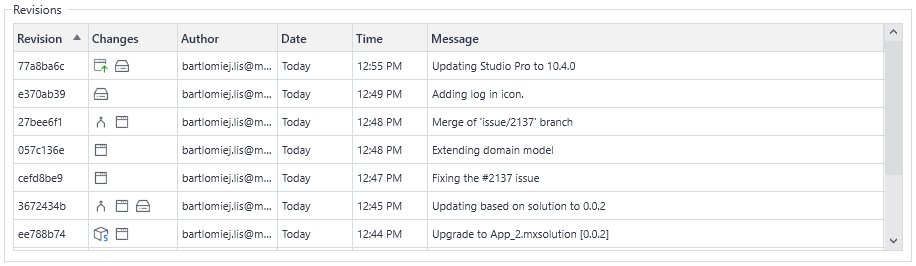
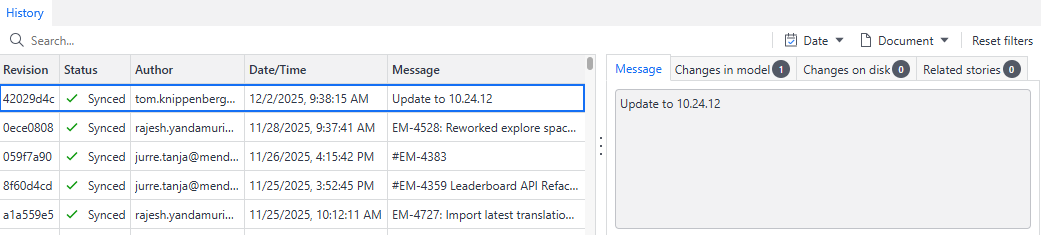
Updated History documentation for 11.6 Pane GA

Changed region(s): [[0.0, 0.0894, 1.0, 0.983], [0.0, 0.0298, 0.0917, 0.0894]]

diff --git a/content/en/docs/refguide/modeling/menus/version-control-menu/history-dialog.md b/content/en/docs/refguide/modeling/menus/version-control-menu/history-dialog.md
@@ -5,92 +5,92 @@ weight: 50
 ---
 ## Introduction
 
-Use the **History** dialog box to look at all the changes that have been committed to a development line of an app. You can open this dialog box from the **Version Control** > **History…** menu item. This dialog box is also used when selecting a revision to merge from, create a branch line off, or to create a deployment archive from.
+Use the **History** to look at all the changes that have been committed to a development line of an app. You can open this from the **Version Control** > **History…** menu item. The History is also used when selecting a revision to revert, to merge from, create a branch line off, or to create a deployment archive from.
 
 {{% alert color="info" %}}
-In Studio Pro 11.4, the non-blocking, searchable **History** pane beta has been released. Open the pane by clicking **View** > **History**. You can set this feature as your default history view in the Preferences [New Features](/refguide/preferences-dialog/#history-pane) tab.
+In Studio Pro 11.6 a new default view for History was introduced. Partially cloned apps automatically get the older blocking dialog and through the [Version Control Preferences](/refguide/preferences-dialog/#history-pane) you can choose to keep using the blocking dialog for all apps.
+
+For more information on the older blocking dialog, please refer to the [Mendix 10 documentation](/refguide10/history-dialog/).
 {{% /alert %}}
 
-{{% alert color="info" %}}
- The **History** pane is not available when the app is partially cloned.
-{{% /alert %}}
-
-The **History** dialog can display up to 250 commits at once, making it easy to look at the detailed project history. If the app was only partially copied, it may need to download missing data from the server. While the data is being downloaded, a progress bar will be shown. This initial download could take a little time, but once the data is saved locally, future access to the **History** dialog will be significantly faster — almost instant.
+The **History** pane displays all revisions at once in a searchable grid, making it easy to look at the detailed project history.
 
 ## Revisions
 
 {{< figure src="/attachments/refguide/modeling/menus/version-control-menu/history-dialog/revisions.png" alt="Revisions Image" class="no-border" >}}
 
-Each line in the grid represents a revision in the repository. For each revision the following information is shown, more information about each of these values is available below:
+Each line in the grid represents a revision in the repository. 
+
+### Search and Filters
+
+There are different filter options available to help finding specific revisions. 
+
+* The search bar looks in all fields of the revisions grid, as well as in the details of the commit such as the Model changes and Disk changes.
+* The date filter allows specifying a date range for revisions. The available presets help to quickly select a range.
+* The document filter allows selecting a document, such as a specific microflow, to filter all revisions on.
+
+### Content
+
+For each revision the following information is shown, more information about each of these values is available below:
 
 * [Revision](#revision)
+* [Status](#status)
 * [Changes](#changes)
 * [Author](#author)
-* [Date](#date)
-* [Time](#time)
+* [Date/Time](#datetime)
 * [Message](#message)
 
 By selecting a revision in this grid, the tabs below the grid will be filled with information about this revision.
 
-### Revision{#revision}
+#### Revision{#revision}
 
 A unique alphanumeric identifier of the revision in the repository. The revision identifier is the Git hash for the commit and is unique for a whole repository.
 
-### Changes{#changes}
+#### Status{#status}
 
-A visual summary of the changes in the selected revision, each icon represents different type of change:
+Shows the state of the revision in relation to the server. It can have one of the following values:
 
-| Icon | Change Type | Notes |
-| --- | --- | --- |
-| {{< figure src="/attachments/refguide/modeling/menus/version-control-menu/history-dialog/MergeRevision.png" width=32 alt="Merge commit icon" class="no-border" >}} | Merge commit | Indicates that the commit is a merge of two different commits.<br/>Hovering over will show both the parent [revisions](#revision). |
-| {{< figure src="/attachments/refguide/modeling/menus/version-control-menu/history-dialog/RevChangesModel.png" width=32 alt="Model changes icon" class="no-border" >}} | Model changes | Indicates that there were some changes made to the app model.<br/>For example, changes to the domain model, microflows, or pages. |
-| {{< figure src="/attachments/refguide/modeling/menus/version-control-menu/history-dialog/RevChangesDisk.png" width=32 alt="Changes on disk icon" class="no-border" >}} | Changes on disk | Indicates that there were changes on disk.<br/>For example, a file was added or removed. |
-| {{< figure src="/attachments/refguide/modeling/menus/version-control-menu/history-dialog/RevChangesVersion.png" width=32 alt="Studio Pro changes icon" class="no-border" >}} | Studio Pro changes | Indicates that there was a change to the Studio Pro version used to work with the app.<br/>For example, when upgrading the app from a previous version to the latest one. |
-| {{< figure src="/attachments/refguide/modeling/menus/version-control-menu/history-dialog/Solution.png" width=32 alt="Solution version changes icon" class="no-border" >}} | Solution version changes | Indicates that a [solution module](/refguide/configure-add-on-and-solution-modules/) used in the app was updated. |
+* **Synced** - shown when revision exists locally as well as on the server.
+* **Local** - shown when the revision is only available locally, because a local commit was made.
+* **On server** - shown when the revision is only available on the server. This is an indicator there is incoming work that will have to be merged before being able to push new commits to the server.
 
-Hover over this column in Studio Pro to get a textual summary of the changes.
-
-### Author{#author}
+#### Author{#author}
 
 The person who committed the change.
 
-### Date{#date}
+#### Date/Time{#datetime}
 
-The date the revision was created, it can have one of the following values:
+The date the revision was created.
 
-* **Today** - shown when revision was created today.
-* **Yesterday** - shown when revision was created yesterday.
-* the date - shown when the revision was created earlier than yesterday.
+#### Message{#message}
 
-### Time{#time}
-
-The time the revision was created.
-
-### Message{#message}
-
-The message saved with the commit. If the message is long, you can read it more easily in the Message tab page, below.
+The message saved with the commit. If the message is long, you can read it more easily in the Message tab page by selecting the revision.
 
 ## Details of Revisions
 
-Below the grid are a number of tabs which give further details about the currently-selected revision.
+On the right of the grid are a number of tabs which give further details about the currently-selected revision.
 
 ### Message
 
 This tab shows the message saved when these changes were committed.
 
-### Related Stories
+The **Mendix version** that was used to commit the revision to the model is also shown. 
 
-This tab shows a list of stories that are related to the changes.
-
-### Changes in Model
+### Model Changes
 
 This tab shows a list of documents that were changed in the selected revision. From here you can jump to the currently selected changed document by clicking **Go to**, assuming the document still exists in the current version.
 
-The **Mendix version** that was used to commit the revision to the model is also shown. 
+The search bar within the tab can be used to filter the list of documents.
 
-### Changes on Disk
+### Disk Changes
 
 This tab shows a list of the files that were changed on disk. You can see whether files were added, deleted or modified.
+
+The search bar within the tab can be used to filter the list of files.
+
+### Stories
+
+This tab shows a list of stories that are related to the changes.
 
 ## Read More
 

diff --git a/content/en/docs/refguide/modeling/menus/edit-menu/preferences-dialog.md b/content/en/docs/refguide/modeling/menus/edit-menu/preferences-dialog.md
@@ -161,6 +161,10 @@ This is the pattern from which the arguments are derived that are passed to the 
 * `{0}` – this is replaced with the name of the original file before the arguments are passed to the file comparison program
 * `{1}` – this is replaced with the name of the changed file before the arguments are passed to the file comparison program
 
+#### History {#history-pane}
+
+Select this option to use the blocking History dialog instead of the non-blocking, searchable History pane.
+
 #### Solution Warning
 
 Select **Show warning on updating marketplace modules** to display a warning message when updating a Marketplace module. 
@@ -294,10 +298,6 @@ When **Extension Development** mode is enabled, you can start Studio Pro without
 ### App Explorer
 
 Select this option to use the modernized version of the App Explorer. You must restart Studio Pro to use this feature.
-
-### History Pane {#history-pane}
-
-Select this option to use the non-blocking, searchable History pane instead of the blocking History window. This feature is currently in beta.
 
 ### Errors Pane
 
